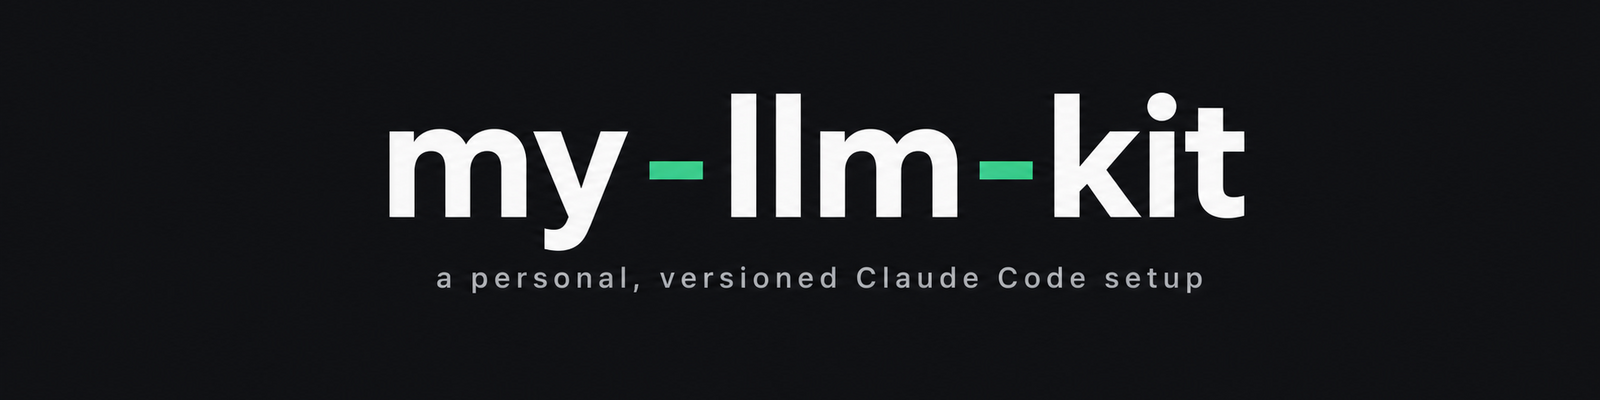
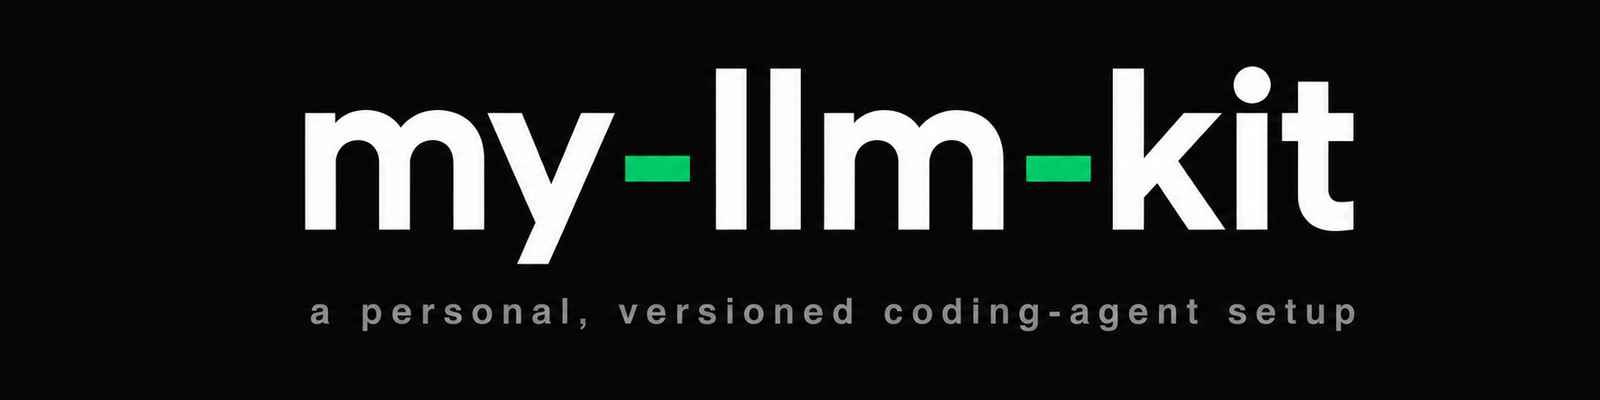
feat: host-agnostic install (Codex, OpenCode, Gemini, Copilot)
Skills now land in ~/.agents/skills, the cross-agent convention, and are
fanned out per-skill only to hosts that don't read it natively. CLAUDE.md
becomes AGENTS.md, installed once and aliased from each host's expected
filename. MCP registration branches per host since the three configs
share no format. Plugins are gated behind claude being installed.

Drops resume-tailoring and x-article-publisher: single-workflow skills
that don't earn a slot in a general setup.

Changed region(s): [[0.1875, 0.15, 0.8438, 0.72], [0.1875, 0.75, 0.8438, 0.84]]

diff --git a/README.md b/README.md
@@ -1,6 +1,6 @@
-<p align="center"><img src="docs/banner.png" width="720" alt="my-llm-kit wordmark on a dark graphite background with the tagline: a personal, versioned Claude Code setup"></p>
+<p align="center"><img src="docs/banner.png" width="720" alt="my-llm-kit wordmark in white with mint-green hyphens on a near-black background, with the tagline: a personal, versioned coding-agent setup"></p>
 
-<p align="center"><b>One clone and one script turn a fresh machine into the exact same Claude Code environment.</b></p>
+<p align="center"><b>One clone and one script turn a fresh machine into the exact same coding-agent environment.</b></p>
 
 <p align="center">
   <a href="LICENSE"><img src="https://img.shields.io/badge/license-MIT-green?style=flat-square" alt="MIT license"></a>
@@ -9,8 +9,9 @@
 </p>
 
 <p align="center">
-  <a href="#the-full-stack">The full stack</a> ·
   <a href="#install">Install</a> ·
+  <a href="#which-agents-this-works-with">Which agents</a> ·
+  <a href="#the-full-stack">The full stack</a> ·
   <a href="#what-setupsh-does">What setup.sh does</a> ·
   <a href="#credits">Credits</a>
 </p>
@@ -20,21 +21,47 @@
 ```bash
 git clone https://github.com/badmuriss/my-llm-kit
 cd my-llm-kit
-./setup.sh --dry-run   # preview what will change before running for real
+./setup.sh --dry-run   # preview every change before running for real
 ./setup.sh
 ```
 
-A personal, versioned Claude Code setup: writing system, research system, coding standards, audit skills, plugins, a global CLAUDE.md, and one idempotent script that wires it all into `~/.claude/`.
+A personal, versioned setup for coding agents: a writing system, a research system, coding standards, audit skills, a shared `AGENTS.md`, and one idempotent script that wires it into the directories your agents actually read.
 
 ## Why this exists
 
-Claude Code config rots quietly: skills drift out of sync between machines, and the global CLAUDE.md forks into local edits nobody remembers making. This repo pins the whole setup to git, so a fresh machine is one clone and one script away from the exact same environment.
+Agent config rots quietly. Skills drift out of sync between machines, the global instructions file forks into local edits nobody remembers making, and every new agent you try wants its own copy of everything. This repo pins the whole setup to git, so a fresh machine is one clone and one script away from the same environment, on whichever agent you happen to be running that week.
+
+## Which agents this works with
+
+Skills install into **`~/.agents/skills/`**, the cross-agent convention. Several hosts read it natively; the ones that only look in their own directory get a per-skill symlink pointing back at the same files. One copy on disk, every agent sees it.
+
+| Host | Reads `~/.agents/skills` natively | What `setup.sh` does |
+|---|---|---|
+| Codex CLI | project scope only | symlinks each skill into `~/.codex/skills/` |
+| Claude Code | no | symlinks each skill into `~/.claude/skills/` |
+| Gemini CLI | yes | nothing needed |
+| GitHub Copilot CLI | yes | nothing needed |
+| OpenCode | yes | nothing needed |
+
+The script only touches a host directory when that host is actually installed, and it never overwrites a real directory that is already sitting there: it reports it and moves on.
+
+The same logic covers the instructions file. `AGENTS.md` lives once at `~/.agents/AGENTS.md`, and `~/.claude/CLAUDE.md` plus `~/.codex/AGENTS.md` become symlinks to it. Edit one file, every agent picks it up.
+
+**MCP servers are the exception, and there is no way around it.** Claude Code, Codex and OpenCode use three different config files in three different formats with no shared path between them, so `setup.sh` branches per host instead of pretending a single command exists. For OpenCode it prints the JSON block rather than editing your config.
+
+### Installing a single skill without the script
+
+Any skill here also installs standalone through [skills.sh](https://skills.sh), which handles the same fan-out:
+
+```bash
+npx skills add badmuriss/site-audit --global --agent '*' -y
+```
 
 ## The full stack
 
 Everything `setup.sh` installs, in one table.
 
-### Skills vendored in this repo (`skills/`, symlinked into `~/.claude/skills/`)
+### Skills vendored in this repo (`skills/`, linked into `~/.agents/skills/`)
 
 | Skill | What it does | Origin / credit |
 |---|---|---|
@@ -47,7 +74,7 @@ Everything `setup.sh` installs, in one table.
 | scrapingdog | ScrapingDog as default paid scraper: SERP, Maps, Trends, News, Amazon, LinkedIn, Instagram | Own; needs `SCRAPINGDOG_API_KEY` in the environment |
 | readme-pass | Top-starred presentation pass for a repo README: banner, badges, anchor nav, install up top, prose untouched | Own |
 
-### Own skill repos (cloned to `~/Documents/`, symlinked)
+### Own skill repos (cloned to `~/Documents/`, then linked)
 
 | Skill | What it does | Repo |
 |---|---|---|
@@ -55,20 +82,22 @@ Everything `setup.sh` installs, in one table.
 | incredibly-pretty-websites | Research-driven frontend design system: dials, archetypes, motion engine, anti AI-slop list | [badmuriss/incredibly-pretty-websites](https://github.com/badmuriss/incredibly-pretty-websites) |
 | site-audit | End-to-end audit of a running site: UX walkthrough, SEO/AEO/GEO, Core Web Vitals | [badmuriss/site-audit](https://github.com/badmuriss/site-audit) |
 
-### Community skills (cloned into `~/.claude/skills/`)
+Those last two are built to hand off to each other: one decides every pixel, the other proves the deployed page holds up.
+
+### Community skills (cloned into `~/.agents/skills/`)
 
 | Skill | What it does | Origin |
 |---|---|---|
 | humanizer | Removes signs of AI writing, based on Wikipedia's guide | [blader/humanizer](https://github.com/blader/humanizer) |
 | notebooklm | Queries Google NotebookLM notebooks for source-grounded answers | [PleasePrompto/notebooklm-skill](https://github.com/PleasePrompto/notebooklm-skill); needs Google auth on first run |
 | llm-council | Runs a question through 5 AI advisors with anonymous peer review | [tenfoldmarc/llm-council-skill](https://github.com/tenfoldmarc/llm-council-skill) |
-| x-article-publisher | Publishes Markdown articles to the X Articles editor | [wshuyi/x-article-publisher-skill](https://github.com/wshuyi/x-article-publisher-skill) |
-| resume-tailoring | Tailors resumes per job application with factual integrity | [varunr89/resume-tailoring-skill](https://github.com/varunr89/resume-tailoring-skill) |
 | firecrawl (suite) | Web scrape, crawl, search and map via the Firecrawl CLI | Installed by [firecrawl-cli](https://github.com/firecrawl/cli); needs `firecrawl login` (or `FIRECRAWL_API_KEY`) |
 
 Skills that need credentials still install without them; they just stay dormant until the key or login exists.
 
-### Plugins (installed via marketplace)
+### Plugins (Claude Code only)
+
+Plugins have no equivalent on the other hosts, so this step is skipped entirely when `claude` is not installed.
 
 | Plugin | What it does | Marketplace repo |
 |---|---|---|
@@ -80,19 +109,20 @@ Skills that need credentials still install without them; they just stay dormant 
 
 ### MCP servers
 
-`setup.sh` registers only `paper-search` (scientific literature on arXiv, PubMed, Semantic Scholar, Crossref, OpenAlex, Unpaywall). Other generic public MCPs worth adding by hand: `playwright` (browser automation) and `shadcn` (component registry). Paid or account-bound MCPs are not part of this kit; see below.
+`setup.sh` registers only `paper-search` (scientific literature on arXiv, PubMed, Semantic Scholar, Crossref, OpenAlex, Unpaywall), on each host that is present. Other generic public MCPs worth adding by hand: `playwright` (browser automation) and `shadcn` (component registry). Paid or account-bound MCPs are not part of this kit; see below.
 
 ### Config
 
 | Component | What it does |
 |---|---|
-| CLAUDE.md | Global Claude Code config, symlinked to `~/.claude/CLAUDE.md` with backup of any pre-existing file |
+| AGENTS.md | Shared agent instructions. Installed at `~/.agents/AGENTS.md`, aliased from `~/.claude/CLAUDE.md` and `~/.codex/AGENTS.md`, with a backup of anything already there |
 | setup.sh | Installs everything above; idempotent, supports `--dry-run` |
 
 ## Not included
 
 Left out on purpose, with the reason:
 
+- single-workflow skills that only pay off for a narrow slice of people (resume tailoring, publishing to X Articles): install those directly with `npx skills add` if they match your week
 - image-gen skill: depends on private helper scripts on my machine
 - client and project skills (frontend-outis, gerar-conteudo, soymi-estampas): client work
 - cs2-coach: personal, no public repo
@@ -101,7 +131,7 @@ Left out on purpose, with the reason:
 
 ## Writing: unslop
 
-unslop lives in its own repo, [badmuriss/unslop](https://github.com/badmuriss/unslop). `setup.sh` clones it to `~/Documents/unslop` and symlinks it into `~/.claude/skills/unslop`.
+unslop lives in its own repo, [badmuriss/unslop](https://github.com/badmuriss/unslop). `setup.sh` clones it to `~/Documents/unslop` and links it into the skill root.
 
 v2 has four modes: write, edit, detect and score. A dedicated Brazilian Portuguese layer catches the tells the English list misses (the em dash splice, "no cenário atual", "é importante ressaltar", call-center gerund). A rubric grades every draft from 0 to 50 with a cut line at 35: below that, the text goes back for a rewrite before it ships. A self-eval runs at the end of each generation to catch relapses before the user sees them.
 
@@ -120,15 +150,15 @@ Two skills adapted from [research-stack](https://github.com/nett0eth/research-st
 
 ## What setup.sh does
 
-1. Checks required binaries: claude, git, python3, pip3, node, npx.
+1. Checks required binaries (git, python3, pip3, node, npx) and reports which agent hosts it found.
 2. Installs `markitdown[all]`, `paper-search-mcp` and `mcp<2.0.0` via pip (mcp 2.0.0 broke fastmcp, so the version is pinned).
-3. Registers the `paper-search` MCP at user scope, skipping if already registered.
-4. Symlinks every skill under `skills/` into `~/.claude/skills/`, backing up any real directory in the way.
-5. Clones the own skill repos (unslop, incredibly-pretty-websites, site-audit) to `~/Documents/` if missing and symlinks them.
-6. Clones the community skills into `~/.claude/skills/`, skipping anything already there.
+3. Registers the `paper-search` MCP on each host present, using that host's own command and config format.
+4. Links every skill under `skills/` into `~/.agents/skills/`, then fans out per-skill symlinks to the host dirs that need them, backing up anything real in the way.
+5. Clones the own skill repos (unslop, incredibly-pretty-websites, site-audit) to `~/Documents/` if missing and links them the same way.
+6. Clones the community skills into the skill root, skipping anything already there.
 7. Installs the Firecrawl CLI and its skill suite if missing.
-8. Symlinks `~/.claude/CLAUDE.md` to the repo's CLAUDE.md, with backup.
-9. Adds each plugin marketplace and installs the plugins, skipping what is already installed.
+8. Installs `AGENTS.md` at `~/.agents/AGENTS.md` and points each host's expected filename at it, with backups.
+9. Adds each plugin marketplace and installs the plugins, skipping what is already installed. Claude Code only.
 
 Heavy converters (MinerU, docling) are opt-in and not installed by the script. The whole thing is idempotent: a second run changes nothing.
 
@@ -137,6 +167,7 @@ Heavy converters (MinerU, docling) are opt-in and not installed by the script. T
 - Research and ingestion skills: adapted from [research-stack](https://github.com/nett0eth/research-stack) by Netto (@nett0eth), MIT.
 - Community pulse: [last30days-skill](https://github.com/mvanhorn/last30days-skill) by mvanhorn, MIT.
 - Writing system: [unslop](https://github.com/badmuriss/unslop), own work, CC BY-SA.
+- Cross-agent skill layout and the `skills` CLI: [vercel-labs/skills](https://github.com/vercel-labs/skills).
 - Community skills credited inline in the table above; each keeps its own license file.
 
 ## License

diff --git a/AGENTS.md b/AGENTS.md
@@ -1,5 +1,10 @@
+Shared instructions for any coding agent (Claude Code, Codex, OpenCode, Gemini CLI, Copilot CLI) running on this machine.
+
+## Skills
+Reusable skills live in `~/.agents/skills/`, the cross-agent convention. Each is a directory holding a `SKILL.md` (YAML frontmatter: `name`, `description`) plus optional reference files. When a task matches a skill's description, read that `SKILL.md` and follow it.
+
 ## Git workflow
-- Do not include "Claude Code" in commit messages
+- Never name the agent in a commit message (no "Claude Code", no "Codex", no co-author trailer)
 - Use conventional commits (be brief and descriptive)
 
 ## Important concepts
